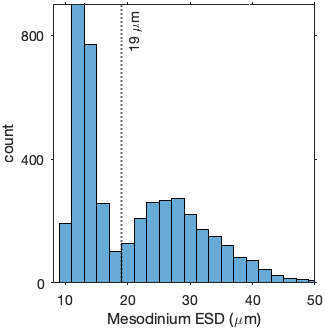
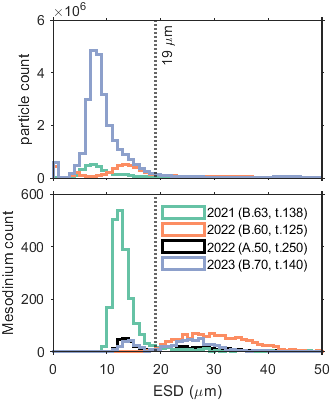
revised Meso hist

Changed region(s): [[0.0, 0.0, 1.0, 1.0]]

diff --git a/NOAA/BuddInlet/plot_histogram_BI.m b/NOAA/BuddInlet/plot_histogram_BI.m
@@ -35,8 +35,8 @@ load([filepath 'IFCB-Data\BuddInlet\manual\summary_meso_width_manual'],'filecomm
 %remove: discrete samples, PMTA triggers, and data from October-March
 dt=datetime(mdate,'convertfrom','datenum')';
 idx=(contains(filecomment,'trigger')); ESD(idx)=[]; dt(idx)=[]; runtype(idx)=[];
-idx=find(dt.Month==1 | dt.Month==2 | dt.Month==3 | dt.Month==10 | dt.Month==11 | dt.Month==12); ESD(idx)=[]; runtype(idx)=[]; 
-idx=(contains(runtype,{'ALT','Alternative'})); Ma=ESD(idx); Mb=ESD(~idx);
+idx=find(dt.Month==1 | dt.Month==2 | dt.Month==3 | dt.Month==10 | dt.Month==11 | dt.Month==12); ESD(idx)=[]; runtype(idx)=[]; dt(idx)=[]; 
+idx=(contains(runtype,{'ALT','Alternative'})); Ma=ESD(idx); Mb=ESD(~idx); dta=dt(idx); dtb=dt(~idx);
 
 clearvars runtype filecomment dt idx matdate ESD
 
@@ -49,25 +49,25 @@ subplot = @(m,n,p) subtightplot (m, n, p, [0.04 0.04], [0.12 0.05], [0.19 0.04])
 %where opt = {gap, width_h, width_w} describes the inner and outer spacings.
 
 subplot(2,1,1)
-    histogram(cell2mat(E1b),0:1:70,'DisplayStyle','stairs','edgecolor',c(1,:)); hold on
-    histogram(cell2mat(E2b),0:1:70,'DisplayStyle','stairs','edgecolor',c(2,:)); hold on
-    histogram(cell2mat(E3b),0:1:70,'DisplayStyle','stairs','edgecolor',c(3,:)); hold on
+    histogram(cell2mat(E1b),0:1:70,'DisplayStyle','stairs','edgecolor',c(1,:),'linewidth',1.5); hold on
+    histogram(cell2mat(E2b),0:1:70,'DisplayStyle','stairs','edgecolor',c(2,:),'linewidth',1.5); hold on
+    histogram(cell2mat(E3b),0:1:70,'DisplayStyle','stairs','edgecolor',c(3,:),'linewidth',1.5); hold on
     set(gca,'xlim',[0 50],'xticklabel',{},'fontsize',10,'tickdir','out');
     ylabel('particle count','fontsize',11)
-    xline(19,':','linewidth',1.5); hold on;    
+    xline(19,':',{'19 \mum'},'linewidth',1.5); hold on;   
 
 subplot(2,1,2)
+hx=histogram(cell2mat(Ma(dta.Year==2022)),0:1:70,'DisplayStyle','stairs','edgecolor','k','linewidth',1.5); hold on    
 yrlist=[2021;2022;2023];
 for i=1:length(yrlist)
-    idx=(dt.Year==yrlist(i));
-    h(i)=histogram(cell2mat([Mb(idx)]),0:1:70,'DisplayStyle','stairs','edgecolor',c(i,:)); hold on
+    idx=(dtb.Year==yrlist(i));
+    h(i)=histogram(cell2mat([Mb(idx)]),0:1:70,'DisplayStyle','stairs','edgecolor',c(i,:),'linewidth',1.5); hold on
 end
-    hx=histogram(cell2mat(Ma(dt.Year==2022)),0:1:70,'DisplayStyle','stairs','edgecolor',c(2,:),'LineStyle','-.'); hold on    
-    xline(19,':',{'19 \mum'},'linewidth',1.5); hold on;    
+    xline(19,':','linewidth',1.5); hold on;    
     set(gca,'xlim',[0 50],'xtick',0:10:50,'fontsize',10,'tickdir','out'); hold on;    
     ylabel('Mesodinium count','fontsize',11)    
-    xlabel('ESD (\mum)')    
-    legend([h(1) h(2) hx h(3)],'2021 (PMTB.63, t.138)','2022 (PMTB.60, t.125)','2022 (PMTA.50, t.25)','2023 (PMTB.70, t.140)'); legend boxoff;
+    xlabel('ESD (\mum)')  
+    legend([h(1) h(2) hx h(3)],'2021 (B.63, t.138)','2022 (B.60, t.125)','2022 (A.50, t.250)','2023 (B.70, t.140)'); legend boxoff;    
 
 % set figure parameters
 %exportgraphics(gcf,[filepath 'NOAA/BuddInlet/Figs/Mesodinium_ESD_histogram_yr.png'],'Resolution',100)    
